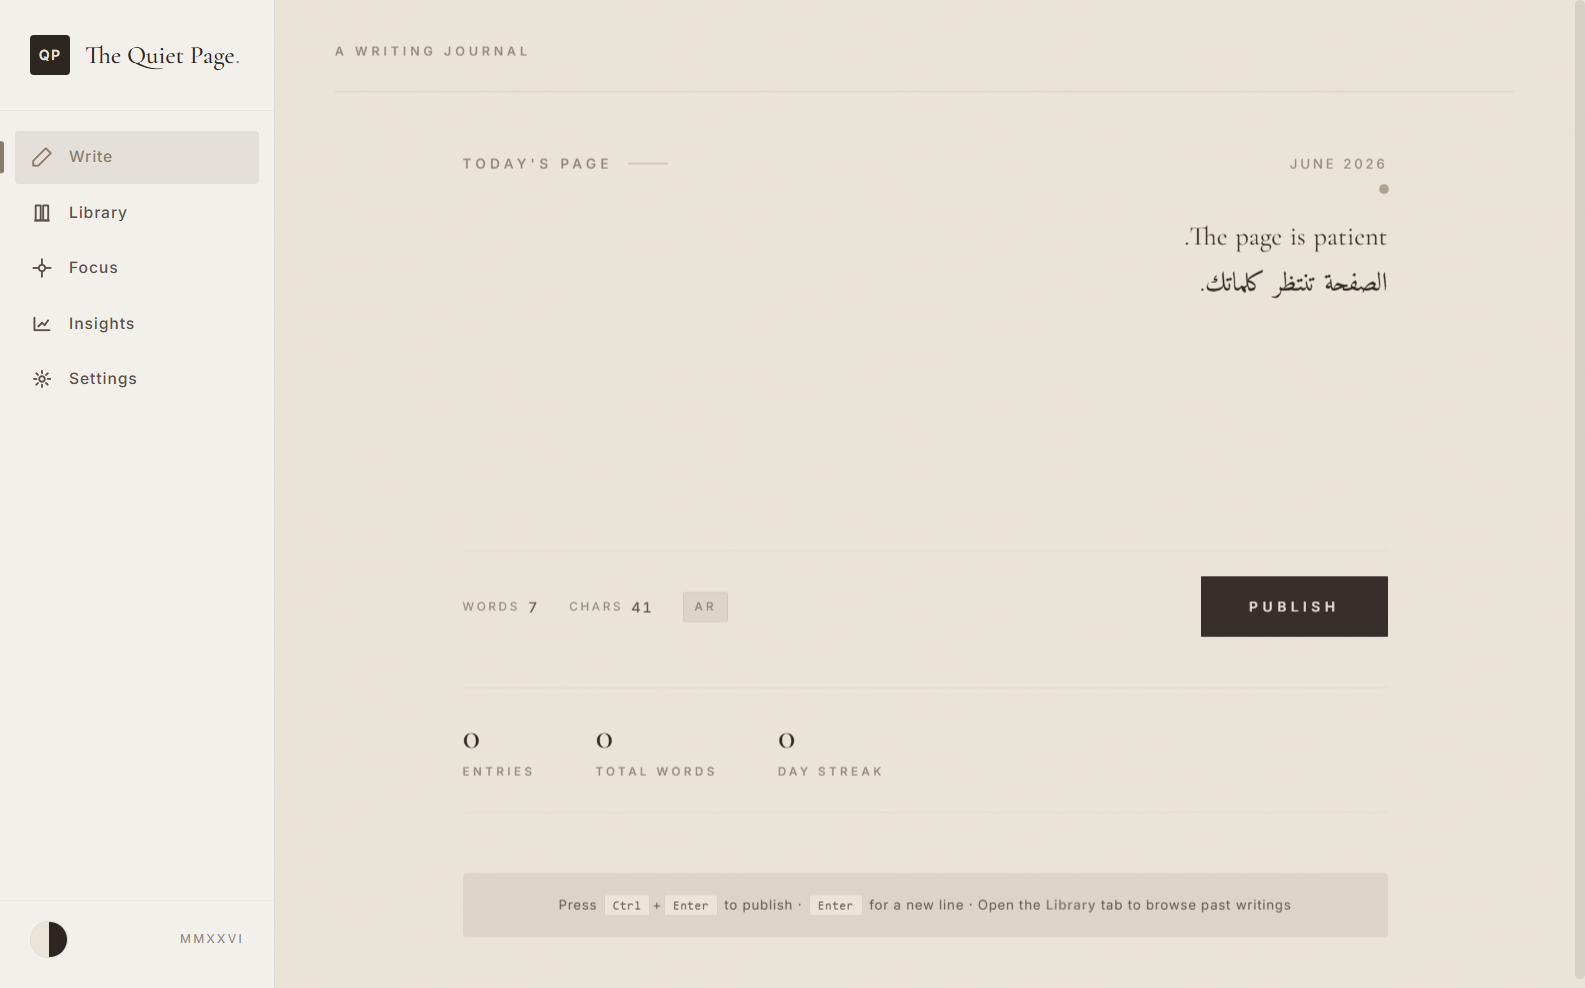
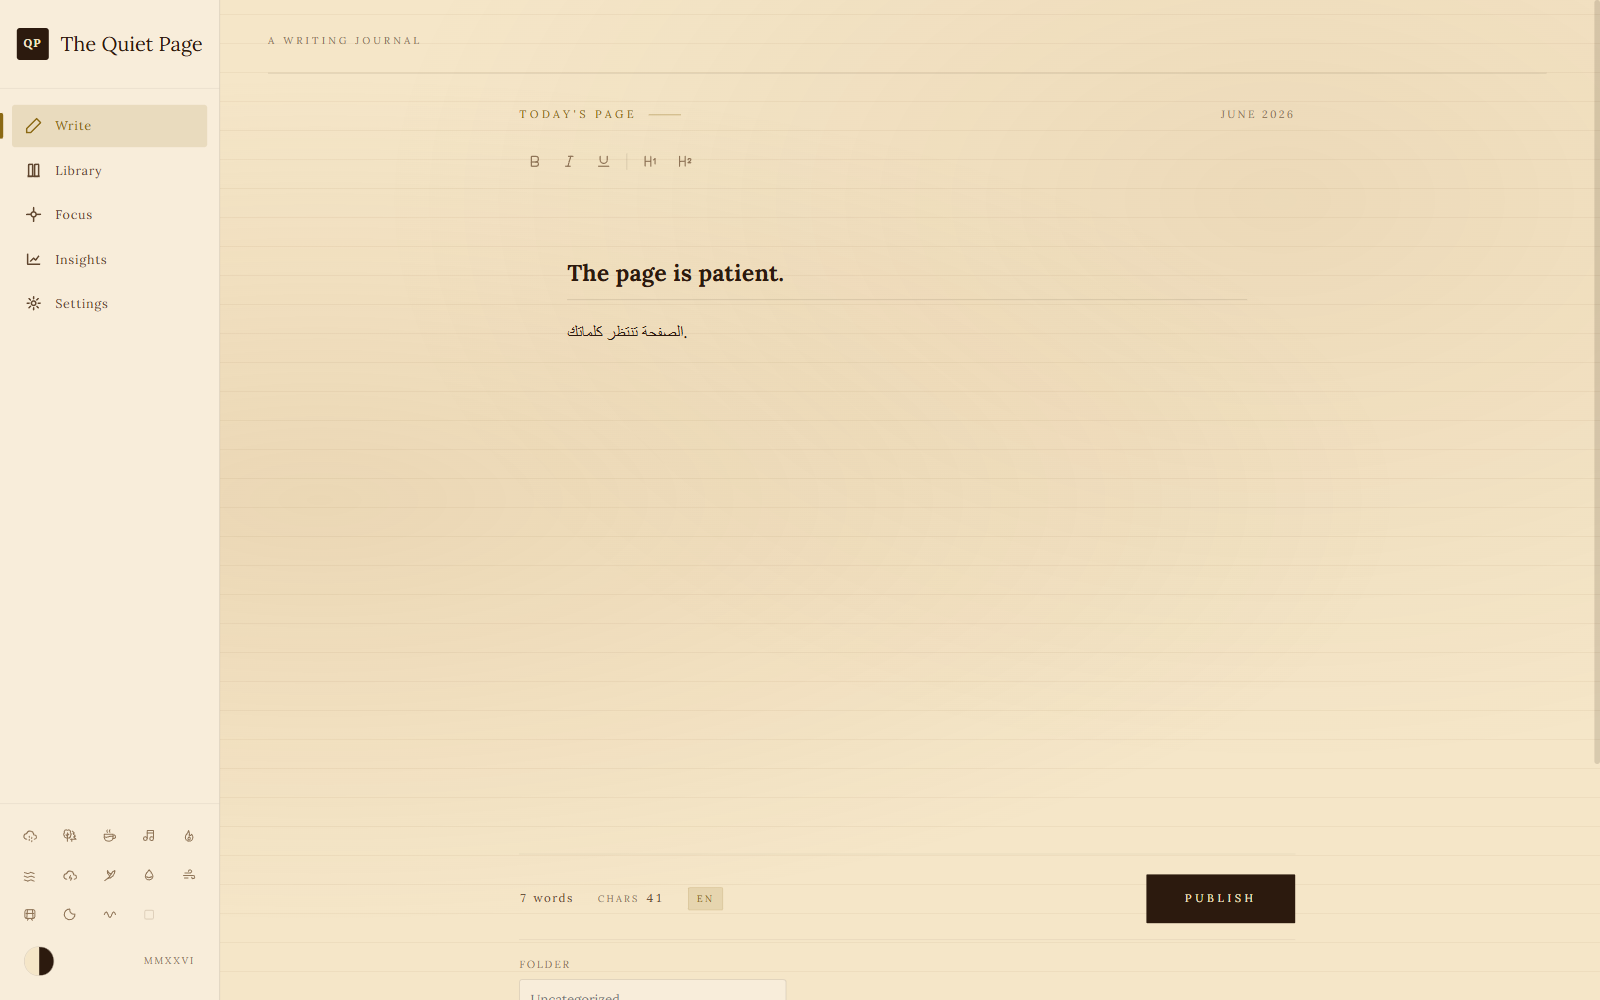
Refresh GitHub page for v1.2.1

diff --git a/README.md b/README.md
@@ -1,31 +1,50 @@
 # The Quiet Page
 
-A calm, private desktop writing space for Arabic and English.
+A private offline writing journal for Windows, made for Arabic and English.
 
-The Quiet Page stores entries, settings, and unfinished drafts on your own
-computer. It has no accounts, analytics, advertising, or online service.
+The Quiet Page is a calm desktop space for drafting, journaling, and keeping
+personal notes without accounts, cloud sync, ads, analytics, or background
+network requests. Your writing, drafts, settings, and backups stay on your own
+computer.
 
 ![The Quiet Page writing screen](docs/screenshot.png)
 
 ## Download
 
-Open the repository's **Releases** page and choose one of:
+Latest release: [v1.2.1](https://github.com/YARObHATEM/the-quiet-page/releases/tag/v1.2.1)
 
-- `The-Quiet-Page-1.1.3-Setup.exe` — normal Windows installer
-- `The-Quiet-Page-1.1.3-Portable.exe` — portable version with no installation
+- [TheQuietPage-1.2.1-Setup.exe](https://github.com/YARObHATEM/the-quiet-page/releases/download/v1.2.1/TheQuietPage-1.2.1-Setup.exe) - normal Windows installer
+- [TheQuietPage-1.2.1-Portable.exe](https://github.com/YARObHATEM/the-quiet-page/releases/download/v1.2.1/TheQuietPage-1.2.1-Portable.exe) - portable version with no installation
 
-Windows may show a SmartScreen warning because the community build is not
-code-signed. Verify the SHA-256 checksums published with each release.
+Windows may show a SmartScreen warning because this community build is not
+code-signed. The release page includes SHA-256 digests for checking the files.
+
+## What's New in 1.2.1
+
+- Cleaner writing flow with the tags feature removed.
+- Full-width library reader for more comfortable long-form reading.
+- Cleaner library cards with larger folders, metadata, and labels.
+- Sidebar title polish: centered brand name, no trailing period.
+- Composer placeholder alignment now follows the real cursor position.
+- Forest ambience volume now matches the other ambient moods.
+- Library scrolling is fixed so the list and reader move independently.
 
 ## Features
 
-- Arabic right-to-left and English left-to-right writing
-- Local journal library with search, editing, pinning, import, and export
-- Focus mode, writing statistics, themes, typography, typewriter sounds, and ambient music moods
-- Offline fonts and no network requests
-- JSON and plain-text backups
+- Arabic right-to-left and English left-to-right writing.
+- Local journal library with search, folders, editing, pinning, copy, import,
+  and export.
+- Rich writing composer with headings, bold, italic, underline, draft restore,
+  and Ctrl+Enter publishing.
+- Focus mode, writing statistics, day streaks, themes, typography controls,
+  typewriter sounds, and ambient writing moods.
+- Bundled offline Arabic and English fonts.
+- JSON and plain-text backups.
+- No accounts, telemetry, cloud service, or network dependency.
 
-## Where data is stored
+## Privacy
+
+Everything stays on your computer.
 
 On Windows, journal data is stored under:
 
@@ -34,7 +53,7 @@ On Windows, journal data is stored under:
 ```
 
 Uninstalling the app does not delete your writing. Back up entries from
-**Settings → Export All as JSON**.
+**Settings > Export All as JSON**.
 
 See [PRIVACY.md](PRIVACY.md) for the full privacy summary.
 
@@ -53,9 +72,10 @@ Create the Windows installer and portable executable:
 npm run dist
 ```
 
-Artifacts are written to `release/`.
+Artifacts are written to `dist/`.
 
 ## License
 
 The application source is released under the [MIT License](LICENSE). Bundled
-fonts have their own SIL Open Font License files under `licenses/fonts/`.
+fonts and ambient audio have their own notices under `licenses/` and
+[THIRD_PARTY_NOTICES.md](THIRD_PARTY_NOTICES.md).